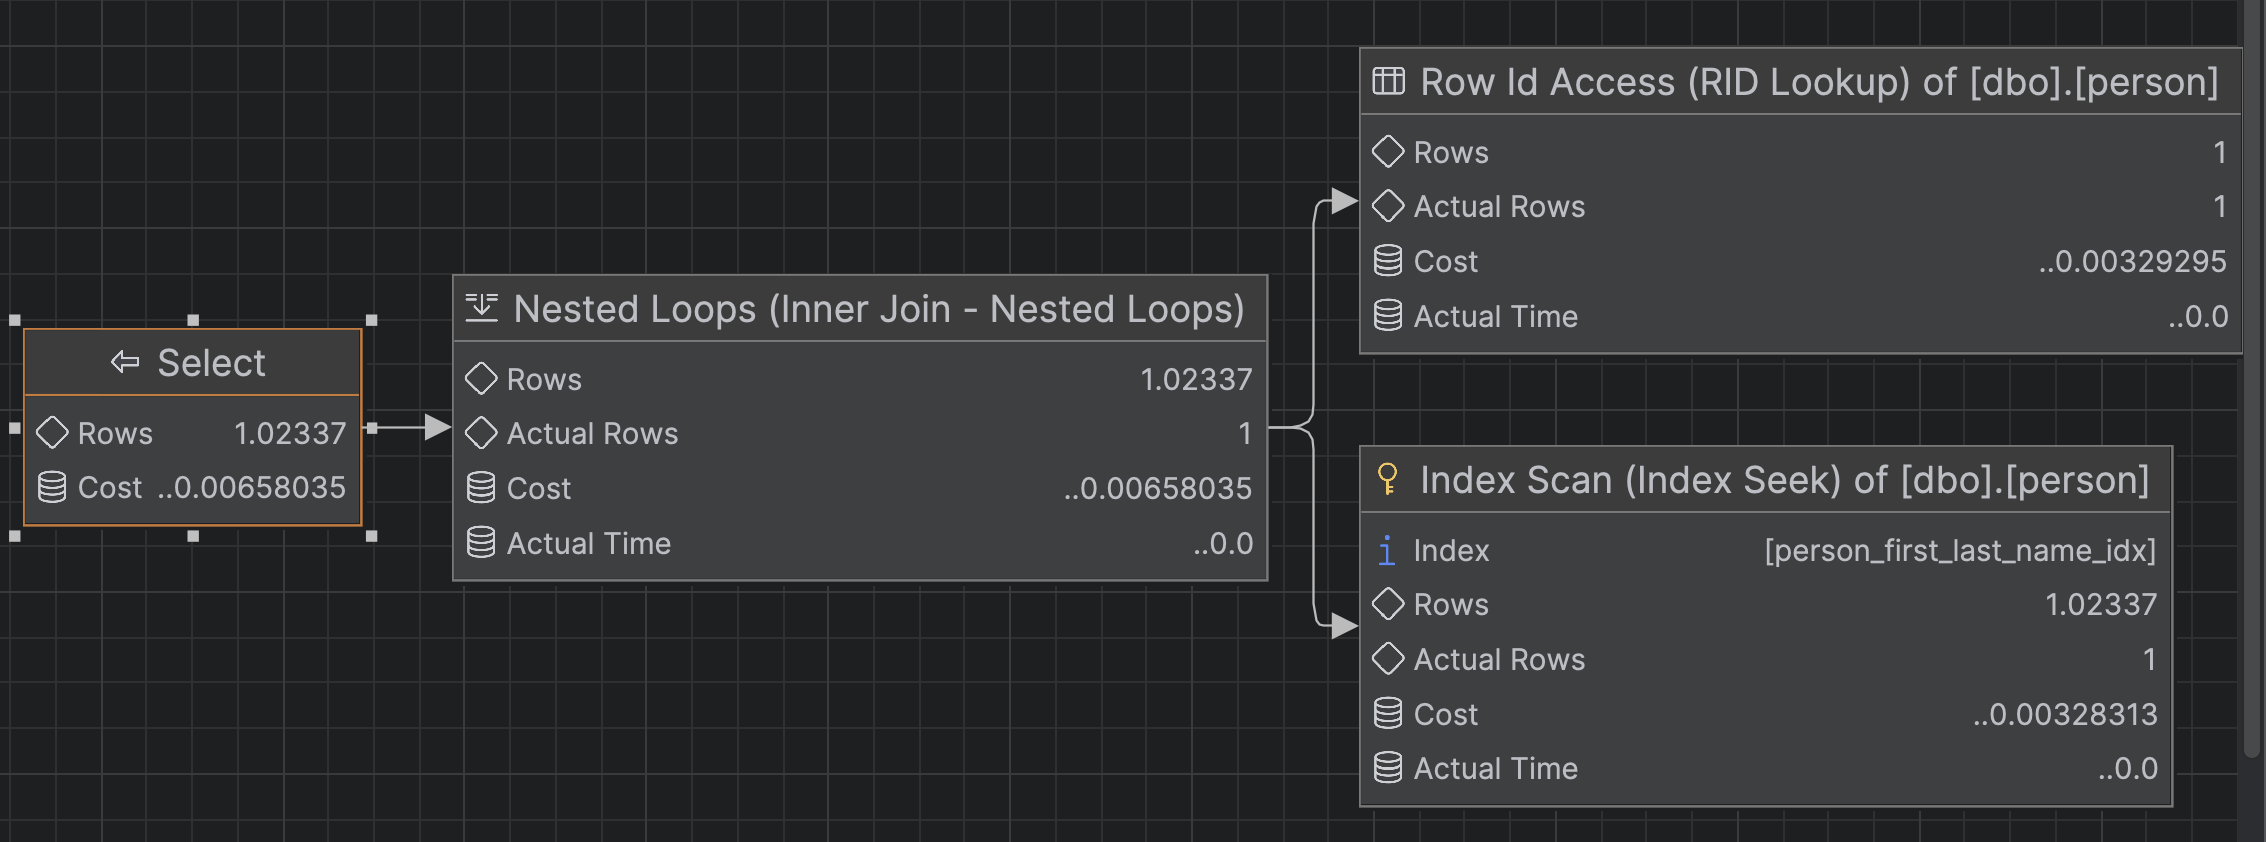
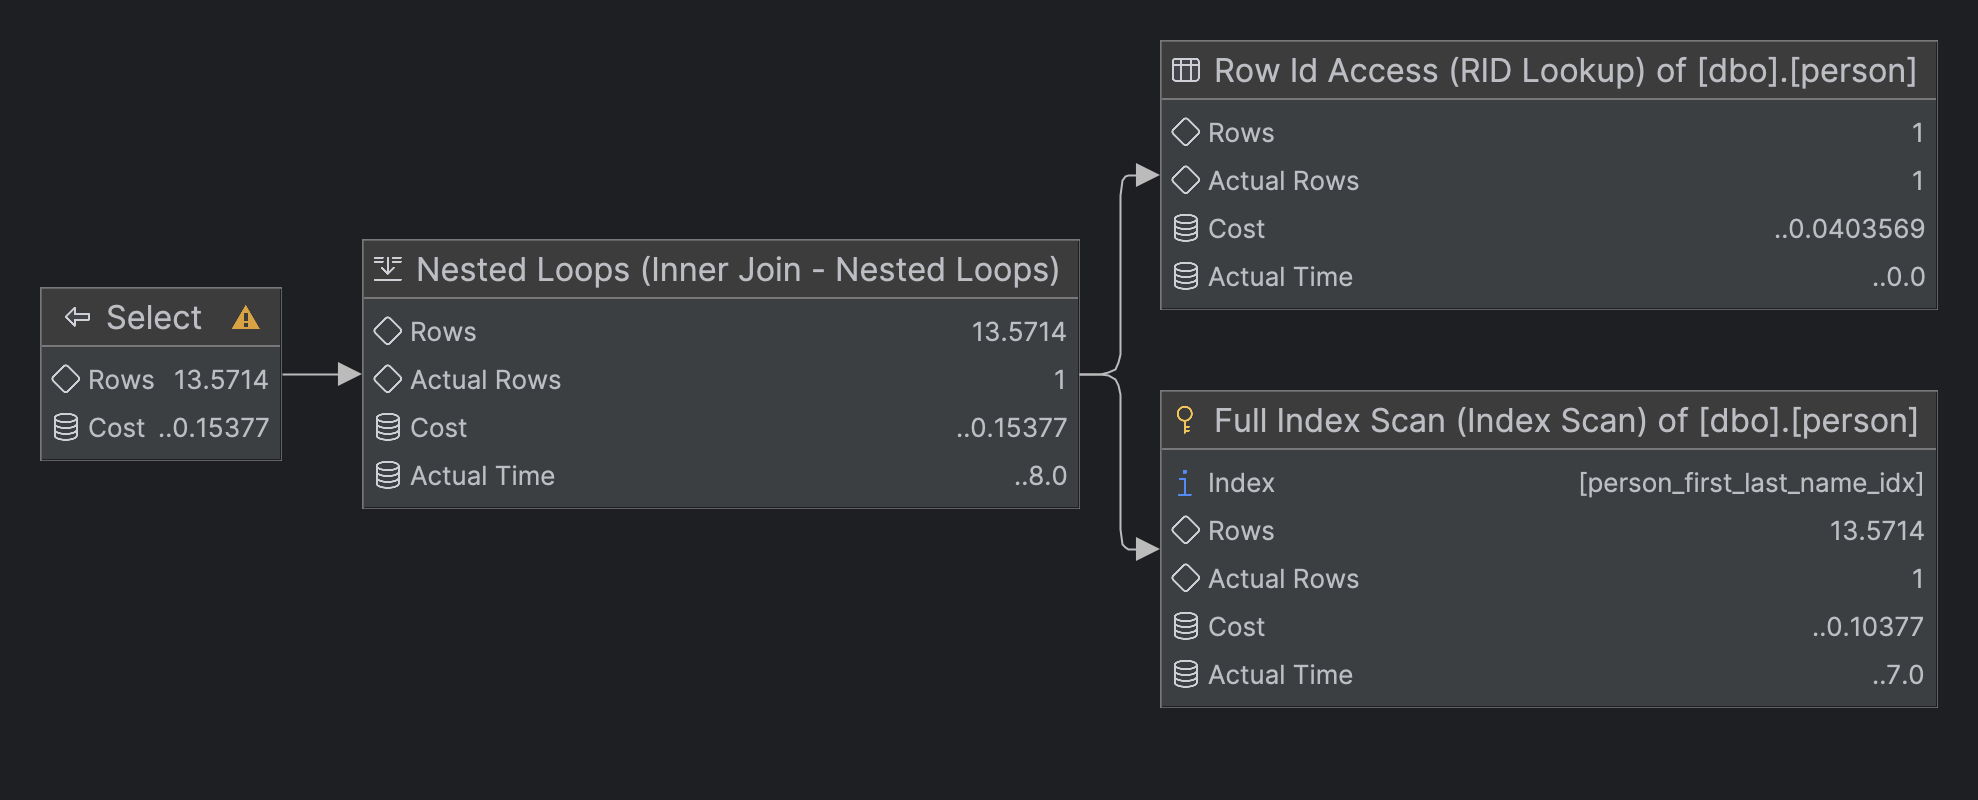
lab 5 done

Changed region(s): [[0.0, 0.0, 1.0, 0.9688]]

diff --git a/lab05/angela_index_2.md b/lab05/angela_index_2.md
@@ -2,7 +2,8 @@
 # Indeksy,  optymalizator <br>Lab 5
 
 <!-- <style scoped>
- p,li {
+ 
+p,li {
     font-size: 12pt;
   }
 </style>  -->
@@ -89,40 +90,46 @@ Wykonaj analizy zapytań:
 
 ```sql
 select * from customer where storeid = 594  
-  
+
 select * from customer where storeid between 594 and 610
 ```
 
 Zanotuj czas zapytania oraz jego koszt koszt:
 
 ---
-🔥 Wyniki: 
-
-| no index | = 594    | between 594 and 610 |
-|----------|----------|---------------------|
-| time     | 3-7      | 3-7                 |
-| cost     | 0.139158 | 0.139158            |
+> Wyniki: 
+> 
+>  ![no_index.png](_img%2Fzad1%2Fno_index.png)
+> 
+>| no index | = 594    | between 594 and 610 |
+>|----------|----------|---------------------|
+>| time     | 5        | 1          |
+>| cost     | 0.150269| 0.150269   |
+> 
+> Czasy faktycznego wykonania są pomijalnie małe i tak.
 
 
 
 Dodaj indeks:
 
 ```sql
-create clustered index customer_store_cls_idx on customer(storeid)
+create index customer_store_cls_idx on customer(storeid)
 ```
 
 Jak zmienił się plan i czas? Czy jest możliwość optymalizacji?
 
 
-🔥 Wyniki: 
-
-| nonclustered | = 594      | between 594 and 610 |
-|--------------|------------|---------------------|
-| time         | 0          | 0                   |
-| cost         | 0.00657038 | 0.0510741           |
-
-Czas wykonania jest pomijalnie mały. Indeksowanie dużo poprawiło koszt wykonania dla filtrowania po pojedynczej 
-wartości, dla zakresu mamy ok rząd wielkości większy koszt.
+> Wyniki: 
+>
+> ![clustered_index.png](_img%2Fzad1%2Fclustered_index.png)
+>
+>| nonclustered | = 594      | between 594 and 610 |
+>|--------------|------------|---------------------|
+>| time         | 1          | 0                   |
+>| cost         | 0.00657038 | 0.05088             |
+>
+> W obu przypadkach czas wykonania jest pomijalnie mały. Indeksowanie dużo poprawiło koszt wykonania dla filtrowania po pojedynczej 
+> wartości, dla zakresu mamy ok rząd wielkości większy koszt. Jeśli chcemy robić większe zapytania, można optymalizować dalej.
 
 
 Dodaj indeks klastrowany:
@@ -134,18 +141,16 @@ create clustered index customer_store_cls_idx on customer(storeid)
 Czy zmienił się plan i czas? Skomentuj dwa podejścia w wyszukiwaniu krotek.
 
 
-🔥 Wyniki: 
-![plan_klastrowany.png](_img%2Fzad1%2Fplan_klastrowany.png)
+> Wyniki: 
+> 
+> ![clustered_index.png](_img%2Fzad1%2Fclustered_index.png)
+> 
+>| clustered | = 594    | between 594 and 610 |
+>|-----------|----------|---------------------|
+>| time      | 0        | 0                   |
+>| cost      | 0.0032831 | 0.0032996           |
+> Przy clustered index roznica miedzy dwoma zapytaniami jest bardzo mala. Indeks klastrowany bardzo dobrze sobie radzi.
 
-| clustered | = 594    | between 594 and 610 |
-|-----------|----------|---------------------|
-| time      | 0        | 0                   |
-| cost      | 0.0032831 | 0.0032996           |
-
-Przy clustered index roznica miedzy dwoma zapytaniami jest bardzo mala. Indeks klastrowany bardzo dobrze sobie radzi.
-
-
- TODO porownac z tym jak bylo w ogole przed zalozeniem indeksow
 
 
 
@@ -187,10 +192,17 @@ Co można o nich powiedzieć?
 
 ---
 > Wyniki: 
-
-```sql
---  ...
-```
+> 
+> Zapytanie 1
+> ![no_index_11.png](_img%2Fzad2%2Fno_index_11.png)
+> ![no_index_12.png](_img%2Fzad2%2Fno_index_12.png)
+> Zapytanie 2 
+> ![no_index_21.png](_img%2Fzad2%2Fno_index_21.png)
+> ![no_index_22.png](_img%2Fzad2%2Fno_index_22.png)
+> Zapytanie 3 
+> ![no_index_31.png](_img%2Fzad2%2Fno_index_31.png)
+> ![no_index_32.png](_img%2Fzad2%2Fno_index_32.png)
+> Plany zapytań są identyczne - mają ten sam koszt. Plany zapytań to po prostu full table scan.
 
 Przygotuj indeks obejmujący te zapytania:
 
@@ -204,10 +216,20 @@ Sprawdź plan zapytania. Co się zmieniło?
 
 ---
 > Wyniki: 
+> 
+> Zapytanie 1
+> ![index_11.png](_img%2Fzad2%2Findex_11.png)
+> ![index_12.png](_img%2Fzad2%2Findex_12.png)
+> Zapytanie 2 
+> ![index_21.png](_img%2Fzad2%2Findex_21.png)
+> ![index_22.png](_img%2Fzad2%2Findex_22.png)
+> Zapytanie 3
+> ![index_31.png](_img%2Fzad2%2Findex_31.png)
+> ![index_32.png](_img%2Fzad2%2Findex_32.png)
+> Koszty zapytań 1 i 2 poszły znacząco w dół. 
+> Koszt zapytania 3, gdzie filtrujemy po imieniu jest cały czas wysoki - tak określiliśmy kolejnosć kolumn po których indeksujemy, że indeks w tym przypadku dużo nie pomaga.
+> Warto zauważyć, że indeks `person(lastname, firstname)` jest najbardziej efektywny dla filtrowania po lastname i firstname naraz, co wykonujemy w zapytaniu 2. Koszt jest najmniejszy spośród tych zapytań.
 
-```sql
---  ...
-```
 
 
 Przeprowadź ponownie analizę zapytań tym razem dla parametrów: `FirstName = ‘Angela’` `LastName = ‘Price’`. (Trzy zapytania, różna kombinacja parametrów). 
@@ -217,11 +239,26 @@ Czym różni się ten plan od zapytania o `'Osarumwense Agbonile'` . Dlaczego ta
 
 ---
 > Wyniki: 
-
-```sql
---  ...
-```
-
+> 
+> 
+> Wcześniej mieliśmy tylko jeden wynik dla trzech róznych zapytań. Teraz mamy 50 wyników dla imienia Angela, 84 dla nazwiska Price i jedną osobę na przecieciu tych zbiorów.
+> ![angela_no_index.png](_img%2Fzad2%2Fangela_no_index.png)
+> Wszystkie zapytania bez założonego indeksu mają identyczny koszt, bo robimy full table scan.
+> 
+> Zapytanie 1 - filtrowanie po nazwisku.
+> ![angela_index_1.png](_img%2Fzad2%2Fangela_index_1.png)
+> Zapytanie 2 - filtrowanie po nazwisku i imieniu.
+> ![angela_index_2.png](_img%2Fzad2%2Fangela_index_2.png)
+> Zapytanie 3 - filtrowanie po imieniu.
+> ![angela_index_3.png](_img%2Fzad2%2Fangela_index_3.png)
+> Dla 2 i 3 jest zgodnie z oczekiwaniami. 2 jest bardzo wydajne, a dla 3 nie mamy założonego indeksuna imię. 
+>
+> Dziwi wynik zapytania 1 - przecież mamy indeks na nazwisko, czyli pole po którym filtrujemy. Query optimizer zdecydował, że nie opłaca się go używać, bo mamy dużo wystąpień wartości po której filtrujemy.
+>
+> Możemy wymusić użycie indeksu:
+> `select * from [person] WITH (INDEX(person_first_last_name_idx)) where lastname = 'Price'`
+> ![force_index.png](_img%2Fzad2%2Fforce_index.png)
+> Faktycznie widać, że tak jest wolniej.
 
 # Zadanie 3
 
@@ -242,31 +279,36 @@ order by rejectedqty desc, productid asc
 Która część zapytania ma największy koszt?
 
 ---
-> Wyniki: 
+> Wyniki:
+> 
+> ![1.png](_img%2Fzad3%2F1.png)
+> Widać, że sortowanie ma największy koszt.
 
-```sql
---  ...
-```
+
 
 Jaki indeks można zastosować aby zoptymalizować koszt zapytania? Przygotuj polecenie tworzące index.
 
 
----
-> Wyniki: 
-
-```sql
---  ...
-```
-
- Ponownie wykonaj analizę zapytania:
-
 
 ---
 > Wyniki: 
-
-```sql
---  ...
-```
+> 
+> Próba nieudana:
+> ```sql
+> CREATE INDEX idx_purchaseorderdetail_sorting ON purchaseorderdetail(rejectedqty desc, productid asc)
+> ```
+> ![index1_fail.png](_img%2Fzad3%2Findex1_fail.png)
+> Zwykły indeks w tym przypadku nie pomaga, tylko psuje - lookup kosztuje 3 razy więcej niż posortowanie tego. Choć wydaje mi się że mógłby dla dużo większej tabeli.
+>
+> Próba udana:
+> ```sql
+> CREATE CLUSTERED INDEX idx_purchaseorderdetail_sorting ON purchaseorderdetail(rejectedqty desc, productid asc)
+> ```
+> ![index1_clustered.png](_img%2Fzad3%2Findex1_clustered.png)
+> Indeks klastrowany zmienia organizację pamięci tak, żeby była ułożona zgodnie z tamtym sortowaniem, dzięki czemu jest ono darmowe (nawet nie ma go w planie zapytania).
+>
+> 
+ 
 
 # Zadanie 4
 
@@ -301,10 +343,17 @@ go
 Czy jest widoczna różnica w zapytaniach? Jeśli tak to jaka? Aby wymusić użycie indeksu użyj `WITH(INDEX(Address_PostalCode_1))` po `FROM`:
 
 > Wyniki: 
-
-```sql
---  ...
-```
+>
+> Bez indeksu:
+> ![Screenshot 2024-04-10 at 00.52.59.png](_img%2Fzad4%2FScreenshot%202024-04-10%20at%2000.52.59.png)
+>
+> Z indeksem address_postalcode_1
+> ![Screenshot 2024-04-10 at 00.54.15.png](_img%2Fzad4%2FScreenshot%202024-04-10%20at%2000.54.15.png)
+> 
+> Z indeksem address_postalcode_2
+> ![Screenshot 2024-04-10 at 00.55.17.png](_img%2Fzad4%2FScreenshot%202024-04-10%20at%2000.55.17.png)
+> 
+> Przy użyciu obu indeksów koszt taki sam.
 
 
 Sprawdź rozmiar Indeksów:
@@ -323,11 +372,19 @@ Który jest większy? Jak można skomentować te dwa podejścia do indeksowania?
 
 
 > Wyniki: 
-
-```sql
---  ...
-```
-
+> 
+> | indexname            | indexsizekb |
+> |----------------------|-------------|
+> | address_postalcode_1 | 1784        |
+> | address_postalcode_2 | 1808        |
+>
+> Indeks 1 indeksuje po kolumnie `postalcode` a resztę kolumn w liściach indeksu.
+> Indeks 2 indeksuje po `postalcode` a potem po wszystkich kolumnach pokolei.
+> W obu przypadkach indeksy obejmują całe dane w tabeli (cover index) dzięki czemu nie potrzeba dostawać się do danych i jest szybko.
+>
+> Indeks 2 przydałby się jeśli mielibyśmy wyszukiwać lub sortować kolejno po `postalcode`, `addressline1` itd.
+> Indeks 2 jest genralnie trudniejszy do utrzymania plus ma odrobinę większy rozmiar.
+>
 
 # Zadanie 5 – Indeksy z filtrami
 
@@ -366,18 +423,27 @@ Przeanalizuj plan dla poniższego zapytania:
 Czy indeks został użyty? Dlaczego?
 
 > Wyniki: 
-
-```sql
---  ...
-```
-
+> 
+> Plan zapytania bez indeksu
+> ![Screenshot 2024-04-10 at 01.41.07.png](_img%2Fzad5%2FScreenshot%202024-04-10%20at%2001.41.07.png)
+> Domyślnie po stworzeniu indeksu zapytanie wykonuje się tym samym planem.
+>
 Spróbuj wymusić indeks. Co się stało, dlaczego takie zachowanie?
 
-> Wyniki: 
-
-```sql
---  ...
-```
+> Możemy wymusić użycie stworzonego przez nas indeksu:
+> ![Select.png](_img%2Fzad5%2FSelect.png)
+> Indeks nie został użyty, bo lookupy są wolniejsze. Query optimizer słusznie wybrał.
+>
+> Możemy pod to query wyeliminować lookupy includując `productassemblyid` do indeksu:
+> 
+> ```sql
+> create nonclustered index billofmaterials_cond_idx
+>    on billofmaterials (componentid, startdate)
+>    include (productassemblyid)
+>    where enddate is not null
+> ```
+> Wtedy zapytanie robi się szybciutko.
+> ![Screenshot 2024-04-10 at 01.48.54.png](_img%2Fzad5%2FScreenshot%202024-04-10%20at%2001.48.54.png)
 
 
 ---
